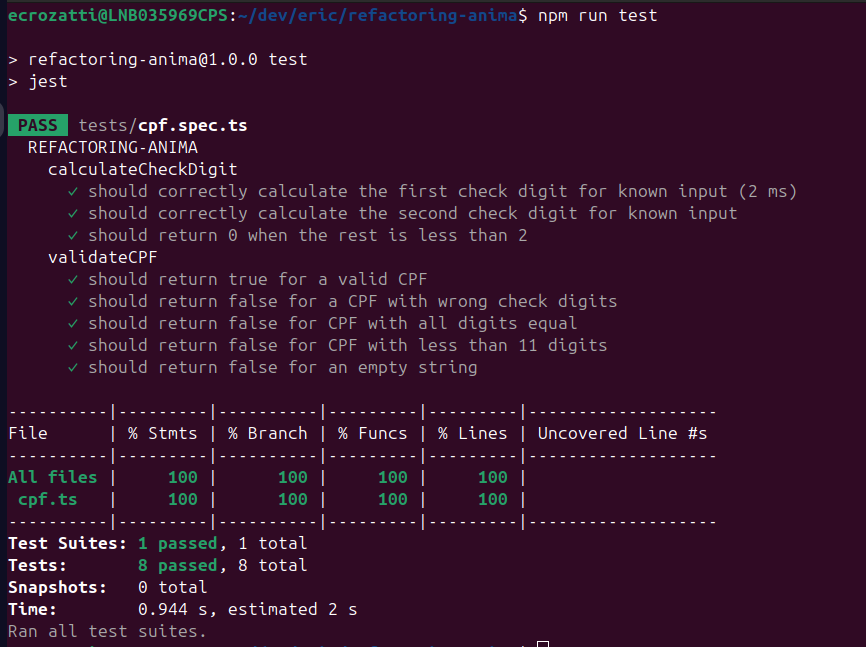
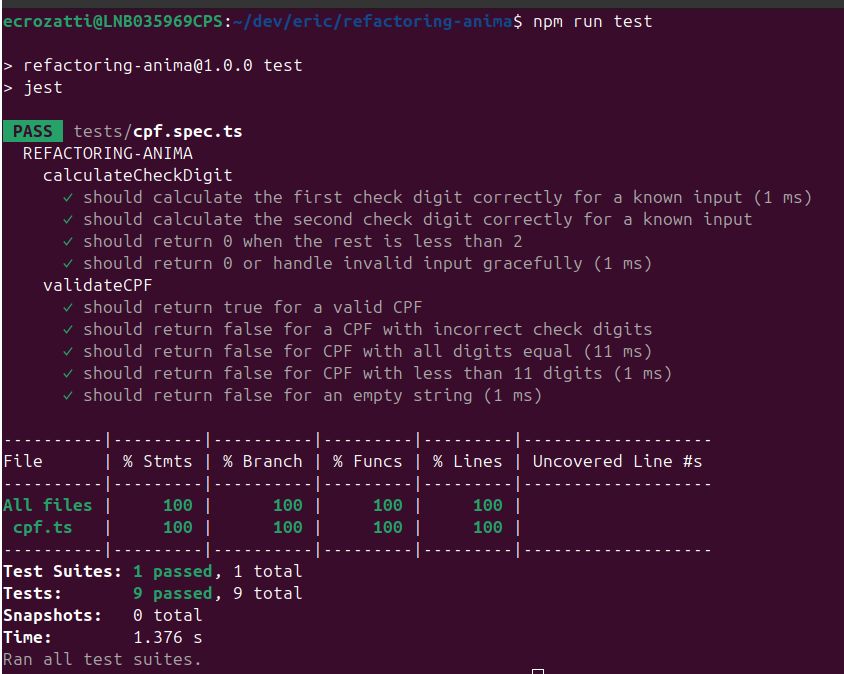
feat: ajustes no readme e validação de CPF inválido

diff --git a/tests/cpf.spec.ts b/tests/cpf.spec.ts
@@ -2,14 +2,14 @@ import { calculateCheckDigit, validateCPF } from '../src/cpf';
 
 describe('REFACTORING-ANIMA', () => {
   describe('calculateCheckDigit', () => {
-    it('should correctly calculate the first check digit for known input', () => {
-      const cpfPart = '111444777'; // os 9 primeiros dígitos
+    it('should calculate the first check digit correctly for a known input', () => {
+      const cpfPart = '111444777';
       const multiplier = 10;
       const digit = calculateCheckDigit(cpfPart, multiplier);
       expect(digit).toBe(3); // Esperado 111.444.777-35
     });
 
-    it('should correctly calculate the second check digit for known input', () => {
+    it('should calculate the second check digit correctly for a known input', () => {
       const cpfPart = '1114447773';
       const multiplier = 11;
       const digit = calculateCheckDigit(cpfPart, multiplier);
@@ -18,6 +18,13 @@ describe('REFACTORING-ANIMA', () => {
 
     it('should return 0 when the rest is less than 2', () => {
       const cpfPart = '000000000';
+      const multiplier = 10;
+      const digit = calculateCheckDigit(cpfPart, multiplier);
+      expect(digit).toBe(0);
+    });
+
+    it('should return 0 or handle invalid input gracefully', () => {
+      const cpfPart = 'ABC';
       const multiplier = 10;
       const digit = calculateCheckDigit(cpfPart, multiplier);
       expect(digit).toBe(0);
@@ -31,7 +38,7 @@ describe('REFACTORING-ANIMA', () => {
       expect(result).toBe(true); // THEN
     });
 
-    it('should return false for a CPF with wrong check digits', () => {
+    it('should return false for a CPF with incorrect check digits', () => {
       const cpf = '111.444.777-00';
       const result = validateCPF(cpf);
       expect(result).toBe(false);

diff --git a/src/cpf.ts b/src/cpf.ts
@@ -3,6 +3,9 @@ export function calculateCheckDigit(
   cpfPart: string,
   startingMultiplier: number,
 ): number {
+  // Retorna se não conter apenas dígitos
+  if (!/^\d+$/.test(cpfPart)) return 0;
+
   let total = 0;
   for (let i = 0; i < cpfPart.length; i++) {
     total += parseInt(cpfPart[i], 10) * (startingMultiplier - i);

diff --git a/README.md b/README.md
@@ -1,6 +1,6 @@
 # 🧮 Validador de CPF (TypeScript)
 
-Este projeto implementa/refatora uma função de validação de CPF em TypeScript, utilizando boas práticas de desenvolvimento, testes automatizados com Jest e ferramentas de qualidade como ESLint e Prettier. (teste para vaga interna)
+Projeto desenvolvido como teste para uma vaga interna, com o objetivo de implementar e refatorar uma função de validação de CPF em TypeScript, aplicando boas práticas de desenvolvimento, testes automatizados com Jest e ferramentas de qualidade como ESLint e Prettier.
 
 ---
 
@@ -26,7 +26,7 @@ npm test
 
 ### 3. Rode via terminal
 
-Valide no terminal executando o comando abaixo comF como parâmetro:
+Execute o comando abaixo com um CPF como parâmetro:
 ```bash
 npm run dev 639.725.330-98
 ```
@@ -39,6 +39,12 @@ Os testes foram escritos com **Jest**, seguindo a abordagem **BDD (Behavior-Driv
 
 ### Exemplos de cenários testados:
 
+**calculateCheckDigit**
+- ✅ Deve calcular corretamente o primeiro dígito verificador
+- ✅ Deve calcular corretamente o segundo dígito verificador
+- ✅ Deve retornar `zero` caso a base numérica seja inválida ou incompleta
+
+**validateCPF**
 - ✅ CPF válido → deve retornar `true`
 - ❌ CPF com dígitos verificadores errados → deve retornar `false`
 - ❌ CPF com todos os dígitos iguais → deve retornar `false`
@@ -53,7 +59,7 @@ Os testes foram escritos com **Jest**, seguindo a abordagem **BDD (Behavior-Driv
 |--------|-----------|
 | **SRP (Single Responsibility Principle)** | A função `validateCPF` faz apenas a validação, seguindo o princípio da responsabilidade única. |
 | **Early return** | Torna o código mais limpo, evitando indentação desnecessária. |
-| **Função auxiliar interna** | `calculateCheckDigit` evita repetição de lógica para o cálculo dos dígitos verificadores. |
+| **Função modularizada** | `calculateCheckDigit` está separada para evitar repetição e facilitar testes isolados. |
 | **Regex** | Usado para limpar a entrada (remover `.`, `-`, espaços) e identificar CPFs inválidos com todos os dígitos iguais. |
 | **Testes automatizados** | Garantem segurança ao código e facilitam manutenção. |
 | **Lint e Prettier** | Garantem padronização e legibilidade do código. |
